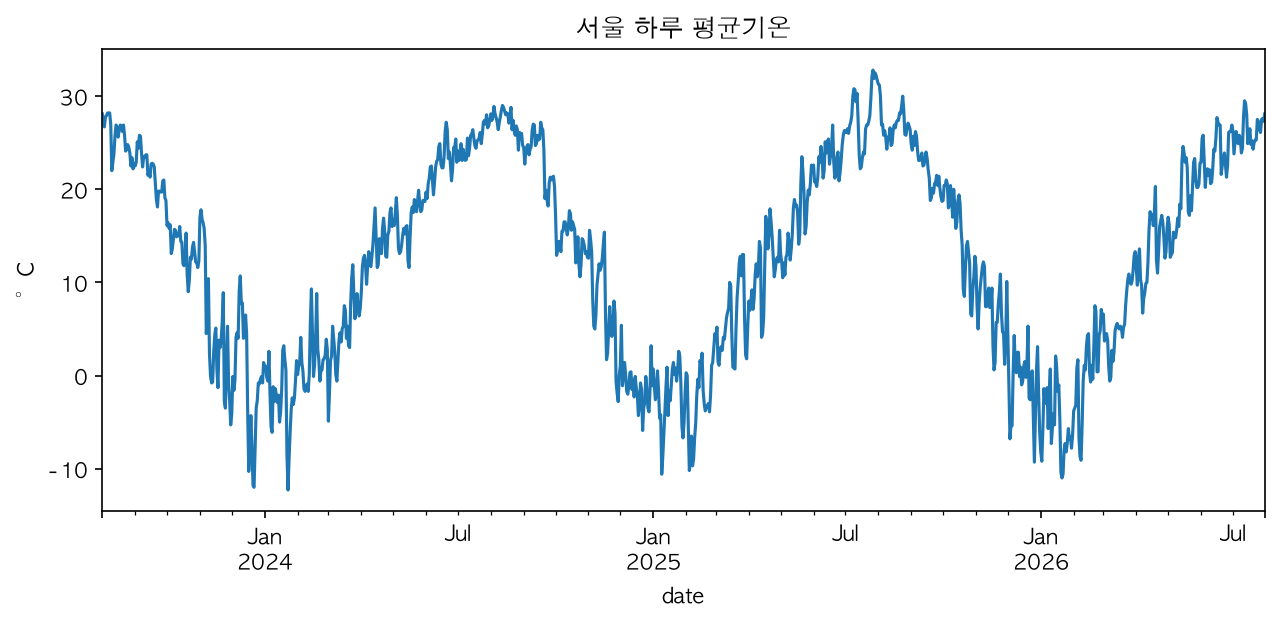
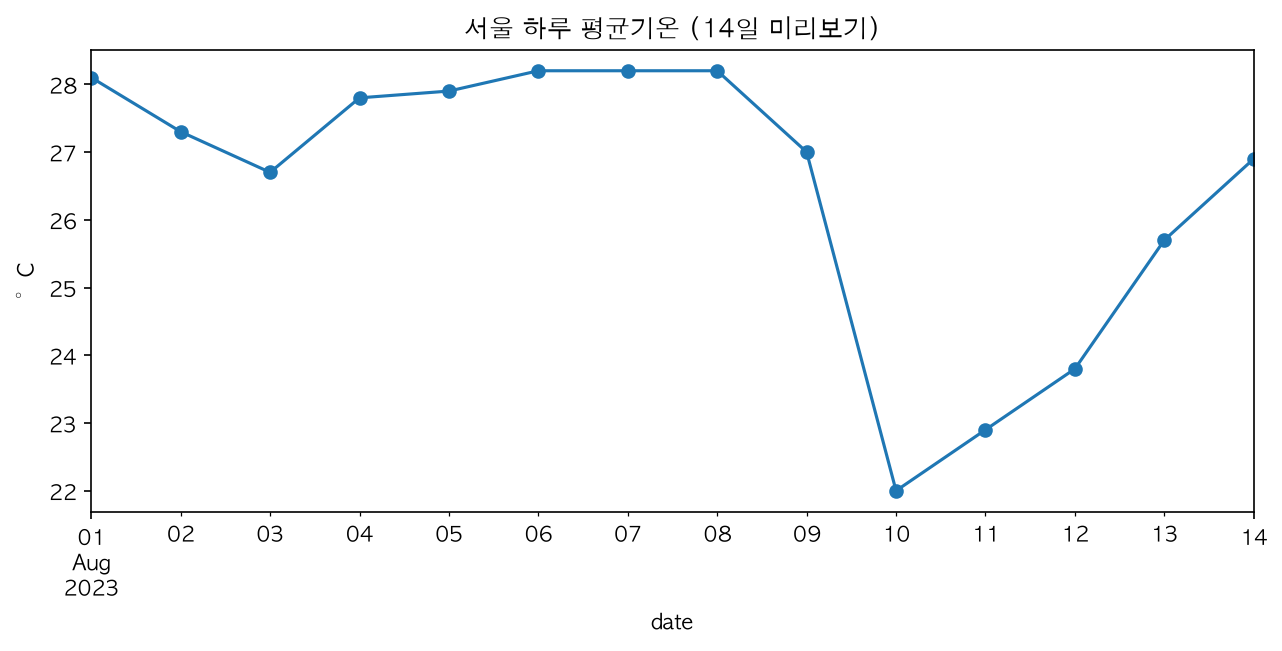
fix: M1 미리보기 그래프 기간 축소 — 계절 파형 스포일러 제거

diff --git a/courses/middle/tools/slide_images.py b/courses/middle/tools/slide_images.py
@@ -27,9 +27,11 @@ def m1():
     out = MODULES / "01-time-data" / "img"
     out.mkdir(exist_ok=True)
     fig, ax = plt.subplots(figsize=(10, 4))
-    df["temp_avg"].plot(ax=ax)
+    # ponytail: 14일 미리보기만 표시 — 전체 3년을 그리면 계절 파형이 보여
+    # worksheet Q5(반복되는 물결 모양)의 답을 미리 스포일링한다.
+    df["temp_avg"].head(14).plot(ax=ax, marker="o")
     ax.set_ylabel("°C")
-    ax.set_title("서울 하루 평균기온")
+    ax.set_title("서울 하루 평균기온 (14일 미리보기)")
     fig.savefig(out / "temp-line.png", dpi=150, bbox_inches="tight")
 
 

diff --git a/courses/middle/modules/01-time-data/slides.md b/courses/middle/modules/01-time-data/slides.md
@@ -105,7 +105,7 @@ style: |
 
 ## 오늘 다룰 데이터
 
-서울의 하루 평균기온
+서울의 하루 평균기온 — 앞부분 14일만 미리 본다
 
 ![width:750](img/temp-line.png)
 
